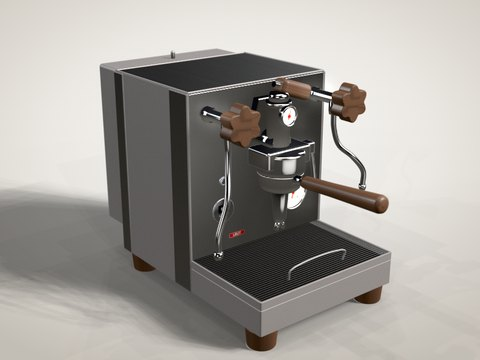
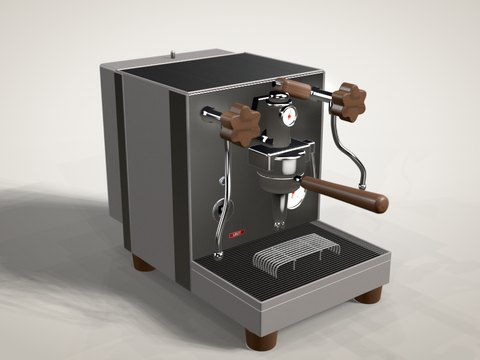
Lelit: erhöhte Tassenablage im Abtropfgitter, Pagaia als Drehregler
- Abtropfschale (Bianca und MaraX3): statt des Drahtbügels die erhöhte
  Tassenablage wie in den Werksbildern – quer laufende Drähte, an den
  Enden abgerundet nach unten gebogen, mit zwei Querstegen, ca. 20 mm
  über dem Gitter
- MaraX3: Pagaia als ovaler Holz-Drehregler (51 × 33 mm) mit zwei runden
  Aussparungen und Edelstahlscheiben, auf einem Stiel an der linken
  Gehäusewand, mit Beschriftung

Claude-Session: https://claude.ai/code/session_01XVE81muw7HYcqaEMYwBuXM

Changed region(s): [[0.5312, 0.6417, 0.7188, 0.7639]]

diff --git a/js/devices/lelit.js b/js/devices/lelit.js
@@ -97,6 +97,20 @@ function makeBadge(kind) {
   return t;
 }
 
+/** kleine gravierte Beschriftung (Alpha-Maske) */
+function makeLabel(text) {
+  const c = makeCanvas(256, 72);
+  const g = c.getContext('2d');
+  g.fillStyle = '#000';
+  g.fillRect(0, 0, 256, 72);
+  g.fillStyle = '#fff';
+  g.font = '600 40px "Helvetica Neue", Arial, sans-serif';
+  g.textAlign = 'center';
+  g.textBaseline = 'middle';
+  g.fillText(text, 128, 38);
+  return new THREE.CanvasTexture(c);
+}
+
 const STAGES = [
   { id: 'sk-frame', src: 'skeleton', from: [0, 1, 0], dist: 400, gap: 0, dur: 0.7, drop: true },
   { id: 'sk-boiler', src: 'skeleton', from: [0, 1, 0], dist: 700, gap: 0.45, dur: 0.85, heavy: true, stagger: 0.2 },
@@ -134,6 +148,7 @@ const MODELS = {
     bot: 33,
     trayHW: 145,
     tray: [-30, 181, 92], // Abtropfschale: z hinten, z vorn, Oberkante
+    rack: { w: 140, z0: 72, z1: 128, h: 20, n: 10 }, // erhöhte Tassenablage (Werksbild Front)
     feet: { x: 120, z: [-192, 153], r: [26, 22.5] },
     frames: [-197, -49], // Seitenblech zwischen Rahmenprofilen
     tank: { z0: -304.6, bot: 71 },
@@ -166,6 +181,7 @@ const MODELS = {
     bot: 34,
     trayHW: 108.5,
     tray: [-39, 166, 92],
+    rack: { w: 125, z0: 48, z1: 92, h: 19, n: 9 }, // erhöhte Tassenablage (Werksansichten)
     feet: { x: 92, z: [-201, 151], r: [16, 16] },
     frames: null,
     strip: [-75, -54],
@@ -342,15 +358,36 @@ function makeBuilder(V) {
       const g = new THREE.PlaneGeometry(W, D);
       g.rotateX(-Math.PI / 2);
       B.add(g, mat('metal.tray', { map: tex, alphaTest: 0.5, alphaToCoverage: true, side: THREE.DoubleSide, shadowSide: THREE.DoubleSide }), S('metal.tray')).position.set(0, tTop - 2.5, tz0 + 4 + D / 2);
-      // Tassenbügel (Drahtgitter) vorn
-      const cw = 60;
-      const pts = [
-        [-cw, tTop - 2, tz1 - 34],
-        [-cw, tTop + 16, tz1 - 30],
-        [cw, tTop + 16, tz1 - 30],
-        [cw, tTop - 2, tz1 - 34],
-      ];
-      B.add(tubeAlong(pts, 1.6, 60, 10), mat('metal.tray'), S('metal.tray'));
+      // erhöhte Tassenablage: quer laufende Drähte, an den Enden abgerundet nach unten gebogen,
+      // zwei Querstege darunter (Werksansichten: ca. 20 mm über dem Gitter)
+      const R0 = V.rack;
+      const base = tTop - 2.5;
+      const hw = R0.w / 2;
+      const h = R0.h;
+      const rackMat = mat('metal.tray');
+      const nW = R0.n;
+      for (let i = 0; i < nW; i++) {
+        const z = R0.z0 + ((R0.z1 - R0.z0) * i) / (nW - 1);
+        const pts = [
+          [-hw, base, z],
+          [-hw - 1.5, base + h * 0.45, z],
+          [-hw + h * 0.12, base + h * 0.9, z],
+          [-hw + h * 0.55, base + h, z],
+          [hw - h * 0.55, base + h, z],
+          [hw - h * 0.12, base + h * 0.9, z],
+          [hw + 1.5, base + h * 0.45, z],
+          [hw, base, z],
+        ];
+        B.add(tubeAlong(pts, 1.15, 70, 8), rackMat, S('metal.tray'));
+      }
+      for (const sx of [-1, 1]) {
+        const bar = B.add(new THREE.CylinderGeometry(1.2, 1.2, R0.z1 - R0.z0 + 4, 10).rotateX(Math.PI / 2), rackMat, S('metal.tray'));
+        bar.position.set(sx * hw * 0.42, base + h - 2.3, (R0.z0 + R0.z1) / 2);
+        for (const z of [R0.z0 + 3, R0.z1 - 3]) {
+          const leg = B.add(new THREE.CylinderGeometry(1, 1, h - 2, 8), rackMat, S('metal.tray'));
+          leg.position.set(sx * hw * 0.42, base + (h - 2) / 2, z);
+        }
+      }
     }
 
     // =======================================================================
@@ -509,10 +546,36 @@ function makeBuilder(V) {
       const led = B.plain(new THREE.TorusGeometry(5.5, 0.6, 8, 32), new THREE.MeshStandardMaterial({ color: 0xdfe8ef, emissive: 0x5a7a98, roughness: 0.3 }));
       led.position.set(p.x, p.h, 4.2);
       if (V.pagaia) {
-        // Pagaia: Holzpaddel mit zwei Tasten an der linken Seite
-        const pg = woodBoxUV(rbox(5, 54, 34, 2.4, 2), 2, [0.4, 0.2]);
-        B.add(pg, mat('wood.paddle'), S('wood.paddle')).position.set(-HW - 3, 280, -20);
-        for (const dy of [-13, 13]) B.plain(new THREE.CylinderGeometry(9, 9, 3, 28).rotateZ(Math.PI / 2), F.chrome).position.set(-HW - 6, 280 + dy, -20);
+        // Pagaia: ovaler Drehregler aus Holz (51 × 33 mm, 12 mm stark) mit zwei runden Aussparungen,
+        // auf einem kurzen Stiel seitlich an der linken Gehäusewand (Mitte z −19, Höhe 280)
+        const g = new THREE.Group();
+        g.position.set(-HW - 1, 280.5, -19.5);
+        root.add(g);
+        const sh = new THREE.Shape();
+        const r = 16.5;
+        const half = 25.5 - r;
+        sh.moveTo(-r, -half);
+        sh.absarc(0, -half, r, Math.PI, Math.PI * 2, false);
+        sh.lineTo(r, half);
+        sh.absarc(0, half, r, 0, Math.PI, false);
+        sh.closePath();
+        for (const dy of [-11.5, 11.5]) {
+          const hole = new THREE.Path();
+          hole.absarc(0, dy, 9.2, 0, Math.PI * 2, true);
+          sh.holes.push(hole);
+        }
+        const plate = new THREE.ExtrudeGeometry(sh, { depth: 12, bevelEnabled: true, bevelThickness: 1.2, bevelSize: 1.2, bevelOffset: -1.2, bevelSegments: 3, curveSegments: 40 });
+        // Shape (x, y) = (z, Höhe), Extrusion nach außen (−X)
+        plate.rotateY(-Math.PI / 2);
+        B.add(woodBoxUV(plate, 1, [0.35, 0.2]), mat('wood.paddle'), S('wood.paddle'), g).position.x = -7;
+        // Grundplatte und Achse aus Edelstahl, in den Aussparungen sichtbar
+        const disc = new THREE.CylinderGeometry(9.4, 9.4, 3, 32).rotateZ(Math.PI / 2);
+        for (const dy of [-11.5, 11.5]) B.add(disc, groupMat, S('metal.group'), g).position.set(-15.5, dy, 0);
+        B.add(new THREE.CylinderGeometry(4.5, 4.5, 8, 20).rotateZ(Math.PI / 2), groupMat, S('metal.group'), g).position.set(-3, 0, 0);
+        // Beschriftung "Pagaia" und Bogen darüber (graviert)
+        const lab = B.plain(new THREE.PlaneGeometry(26, 7), new THREE.MeshStandardMaterial({ color: 0x2a2a2a, alphaMap: makeLabel('Pagaia'), transparent: true, roughness: 0.6 }));
+        lab.rotation.y = -Math.PI / 2;
+        lab.position.set(-HW - 0.15, 318, -19.5);
       }
     }
 
